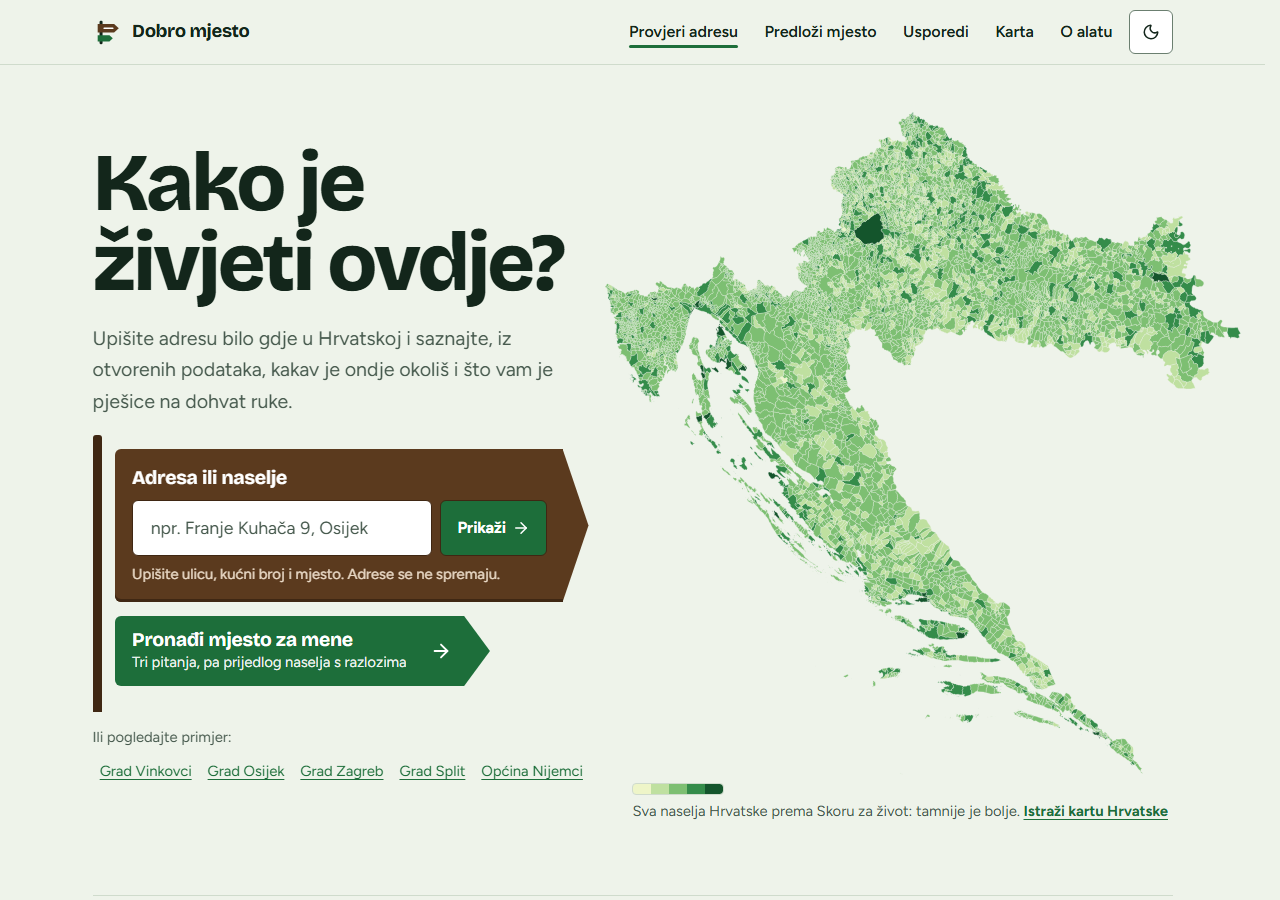
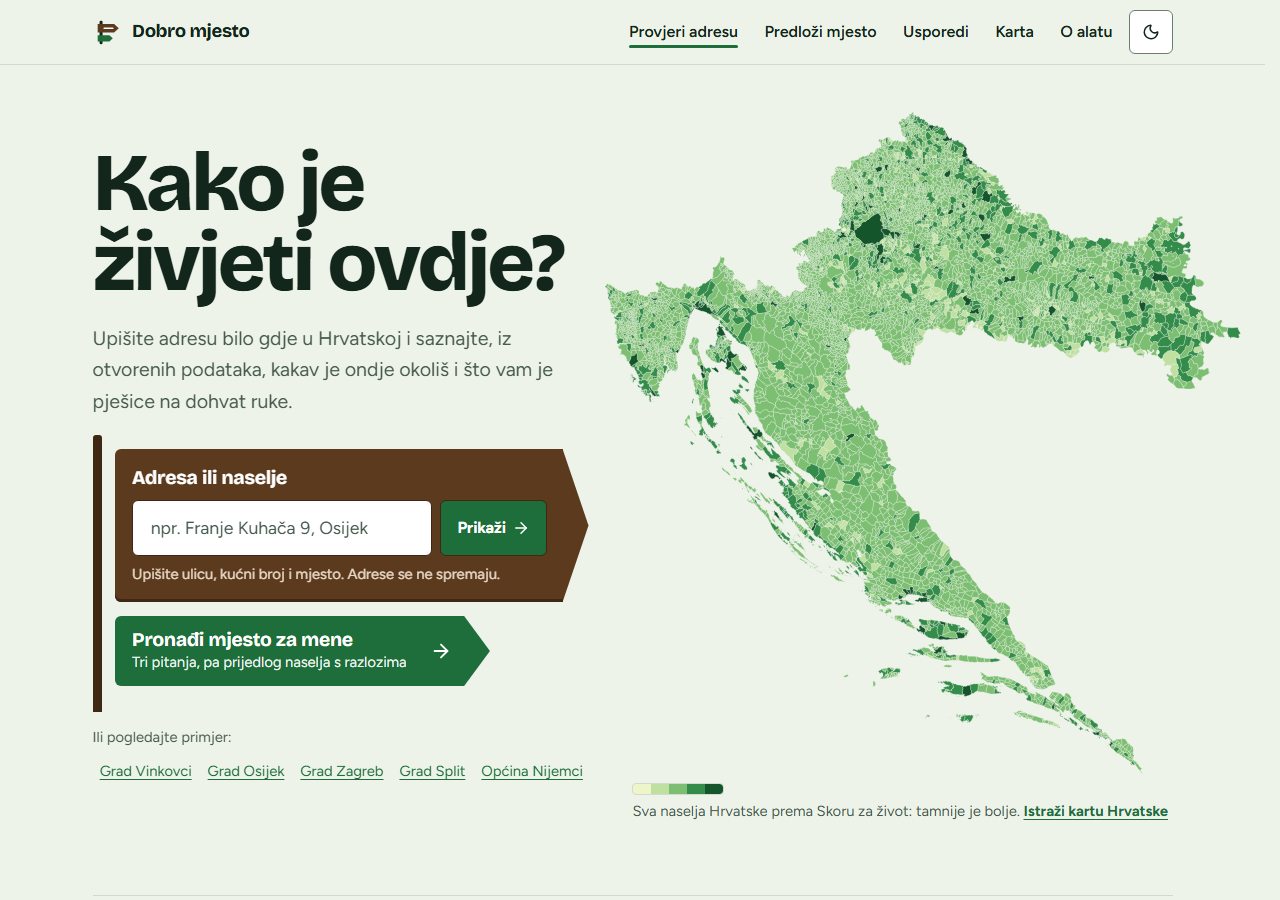
fix(traffic): count no county roads and measure settlements over all their addresses
Split led almost every profile because its centre lies in the pedestrian old
town (100/100), while 79 % of settlements were "near a major road" because a
county road runs through nearly every village. County roads (OSM secondary
with a Ž number) no longer count; for settlements the band is computed for
every DGU address (1,683,411) and the sub-score is their mean. The address
report keeps its own point. Goldens updated, compare table is a focusable
scroll region.

Changed region(s): [[0.5938, 0.1244, 0.9375, 0.7467], [0.75, 0.7467, 0.7812, 0.7778], [0.5312, 0.3111, 0.5625, 0.3422]]

diff --git a/frontend/src/pages/AboutPage.tsx b/frontend/src/pages/AboutPage.tsx
@@ -90,8 +90,9 @@ export function AboutPage() {
               <tr>
                 <th scope="row">Udaljenost od prometnica</th>
                 <td>
-                  Zračna udaljenost od lokacije do autocesta, brzih, državnih i županijskih cesta te pruga
-                  (OpenStreetMap). Ne mjerimo buku; to je zamjenski pokazatelj.
+                  Zračna udaljenost od lokacije do autocesta, brzih, državnih i glavnih gradskih cesta te
+                  pruga (OpenStreetMap); županijske ceste s oznakom Ž se ne broje. Za naselje se
+                  računa za svaku adresu. Ne mjerimo buku; to je zamjenski pokazatelj.
                 </td>
                 <td>
                   Do 300 m: blizu prometnice; 300–500 m: rub zone prometa; dalje: podalje od

diff --git a/frontend/src/pages/ComparePage.tsx b/frontend/src/pages/ComparePage.tsx
@@ -39,7 +39,9 @@ function CompareTable({ a, b, ra, rb }: { a: Point; b: Point; ra: Report; rb: Re
   const dailyValue = (r: Report, key: string) =>
     cat(r, 'daily')?.values.find((v) => v.key === `nearest_${key}`)
   return (
-    <div style={{ overflowX: 'auto' }}>
+    // A scrollable region must be reachable by keyboard (axe: scrollable-region-focusable).
+    // eslint-disable-next-line jsx-a11y/no-noninteractive-tabindex -- see the line above
+    <div className="table-scroll" role="region" aria-label="Tablica usporedbe" tabIndex={0}>
       <table className="compare-table">
         <caption className="visually-hidden">Usporedba dviju adresa po kategorijama</caption>
         <thead>

diff --git a/backend/ingest/settlement_traffic.py b/backend/ingest/settlement_traffic.py
@@ -1,0 +1,117 @@
+"""Distance from major roads for whole settlements, over every DGU address.
+
+One point (the settlement centre) does not describe a town: the centre of Split lies in
+the pedestrian old town, while most of its people live along busy roads, and the centre
+of almost every village lies on the road through it. So for the map and "Predloži
+mjesto" every DGU address in the settlement gets the same band as an address report
+(analysis/environment.py: up to 300 m, 300–500 m, beyond 500 m from a motorway,
+expressway, state road or main city street), and the settlement gets the shares of its
+addresses in each band and the mean of their sub-scores. Settlements without addresses
+keep the value at their centre.
+
+Output: data/processed/settlement_traffic.parquet
+  code, addresses, near_share, edge_share, far_share, score_noise
+"""
+
+from __future__ import annotations
+
+import json
+
+import numpy as np
+import pandas as pd
+import pyarrow as pa
+import pyarrow.parquet as pq
+from shapely import STRtree, points
+
+from analysis.environment import TRAFFIC_BANDS, is_traffic_road
+from analysis.score import TRAFFIC_POINTS
+from app.geo import to_htrs_arrays
+from app.layers import load_lines
+from ingest.common import processed_dir, record_source
+
+NEAR_M = float(TRAFFIC_BANDS[0][0] or 300.0)
+EDGE_M = float(TRAFFIC_BANDS[1][0] or 500.0)
+
+
+def address_distances(lon: np.ndarray, lat: np.ndarray) -> np.ndarray:
+    """Straight-line distance in metres from each point to the nearest major road
+    (capped at EDGE_M + 1: only the band matters beyond 500 m)."""
+    lines = load_lines(processed_dir() / "osm_noise_lines.parquet")
+    if lines is None:
+        raise RuntimeError("Nema osm_noise_lines.parquet: pokrenite `make data` (OSM).")
+    roads = [
+        g
+        for g, k, r in zip(lines.geoms, lines.kinds, lines.refs, strict=True)
+        if k != "rail" and is_traffic_road(k, r)
+    ]
+    tree = STRtree(roads)
+    x, y = to_htrs_arrays(lon.astype(np.float64), lat.astype(np.float64))
+    pts = points(x, y)
+    cap = EDGE_M + 1.0
+    dist = np.full(len(pts), cap)
+    idx, d = tree.query_nearest(pts, max_distance=cap, return_distance=True, all_matches=False)
+    # query_nearest returns (input index, tree index) pairs; keep the shortest per point.
+    np.minimum.at(dist, idx[0], d)
+    return dist
+
+
+def run() -> None:
+    d = processed_dir()
+    addresses = pd.read_parquet(d / "addresses.parquet", columns=["settlement_code", "lon", "lat"])
+    addresses = addresses.dropna(subset=["settlement_code"]).assign(real=True)
+    # Settlements without any address are measured at their centre instead.
+    centres = pd.read_parquet(d / "settlements.parquet", columns=["code", "lon", "lat"])
+    centres = centres[~centres["code"].isin(set(addresses["settlement_code"]))]
+    addresses = pd.concat(
+        [addresses, centres.rename(columns={"code": "settlement_code"}).assign(real=False)],
+        ignore_index=True,
+    )
+    dist = address_distances(addresses["lon"].to_numpy(), addresses["lat"].to_numpy())
+    near = dist <= NEAR_M
+    edge = (dist > NEAR_M) & (dist <= EDGE_M)
+    far = dist > EDGE_M
+    points_by_band = np.where(
+        near,
+        TRAFFIC_POINTS["Blizu prometnice"],
+        np.where(edge, TRAFFIC_POINTS["Rub zone prometa"], TRAFFIC_POINTS["Podalje od prometnica"]),
+    )
+    frame = pd.DataFrame(
+        {
+            "code": addresses["settlement_code"].astype(str).to_numpy(),
+            "near": near,
+            "edge": edge,
+            "far": far,
+            "points": points_by_band,
+            "real": addresses["real"].to_numpy(),
+        }
+    )
+    grouped = frame.groupby("code")
+    table = pd.DataFrame(
+        {
+            "addresses": grouped["real"].sum(),
+            "near_share": grouped["near"].mean(),
+            "edge_share": grouped["edge"].mean(),
+            "far_share": grouped["far"].mean(),
+            "score_noise": grouped["points"].mean().round(),
+        }
+    ).reset_index()
+    pq.write_table(
+        pa.Table.from_pandas(table, preserve_index=False), d / "settlement_traffic.parquet"
+    )
+    record_source(
+        "settlement_traffic",
+        title="Udaljenost adresa naselja od velikih prometnica, izračun aplikacije",
+        publisher="izvedeno iz DGU adresa i OpenStreetMapa",
+        url="",
+        license="CC BY 4.0 (izvedeni podaci); ulazni izvori zadržavaju svoje licence",
+        retrieved_at=pd.Timestamp.now(tz="UTC").isoformat(timespec="seconds"),
+        notes=json.dumps({"settlements": len(table), "addresses": int(frame["real"].sum())}),
+    )
+    print(
+        f"prometnice po adresama: {int(frame['real'].sum())} adresa u {len(table)} naselja, "
+        f"blizu prometnice {near.mean():.0%}"
+    )
+
+
+if __name__ == "__main__":
+    run()

diff --git a/backend/analysis/environment.py b/backend/analysis/environment.py
@@ -616,6 +616,19 @@ TRAFFIC_BANDS: list[tuple[float | None, str, Status]] = [
 _COUNTY_REF = re.compile(r"\d{4}")
 
 
+def is_traffic_road(kind: str, ref: str) -> bool:
+    """Roads that count as major traffic: motorways, expressways, state and other primary
+    roads, and secondary roads without a county number (main city streets that used to
+    be county roads). County roads (secondary with a four-digit Ž number) run through
+    almost every village and mostly carry little traffic, so they are left out."""
+    if kind in ("motorway", "trunk", "primary"):
+        return True
+    if kind == "secondary":
+        first = (ref or "").split(";")[0].strip()
+        return not _COUNTY_REF.fullmatch(first)
+    return False
+
+
 def road_name(kind: str, ref: str) -> str:
     """Croatian road class from OSM tags (wiki "Croatia/Ceste"): motorway is an autocesta,
     trunk a brza cesta, primary a državna cesta (ref D…), secondary a županijska cesta
@@ -631,7 +644,7 @@ def road_name(kind: str, ref: str) -> str:
         return f"državna cesta {first}" if first.startswith("D") else "glavna cesta"
     if _COUNTY_REF.fullmatch(first):
         return f"županijska cesta Ž{first}"
-    return "županijska ili glavna gradska cesta" if not first else "važnija cesta"
+    return "glavna gradska cesta" if not first else "važnija cesta"
 
 
 def traffic_band(distance_m: float) -> tuple[str, Status]:
@@ -670,13 +683,15 @@ def noise_category(lon: float, lat: float, layers: Layers) -> Category:
     nearest: dict[str, tuple[float, str]] = {}
     for i in lines.tree.query(origin.buffer(2000.0), predicate="intersects"):
         kind = lines.kinds[int(i)]
+        if kind != "rail" and not is_traffic_road(kind, lines.refs[int(i)]):
+            continue
         group = "rail" if kind == "rail" else "road"
         d = float(lines.geoms[int(i)].distance(origin))
         if group not in nearest or d < nearest[group][0]:
             nearest[group] = (d, road_name(kind, lines.refs[int(i)]))
     values: list[Value] = []
     for group, value_label in (
-        ("road", "Najbliža autocesta, brza, državna ili županijska cesta"),
+        ("road", "Najbliža autocesta, brza, državna ili glavna gradska cesta"),
         ("rail", "Najbliža pruga"),
     ):
         found = nearest.get(group)
@@ -699,7 +714,7 @@ def noise_category(lon: float, lat: float, layers: Layers) -> Category:
     sentences = [
         _traffic_sentence(road[1], road[0])
         if road
-        else "U krugu od 2 km nema autoceste, brze, državne ni županijske ceste."
+        else "U krugu od 2 km nema autoceste, brze, državne ni glavne gradske ceste."
     ]
     if rail and rail[0] <= 500:
         sentences.append(f"Željeznička pruga je {fmt.metres(rail[0])} od lokacije.")
@@ -724,9 +739,9 @@ def noise_category(lon: float, lat: float, layers: Layers) -> Category:
         scales=[scale],
         notes=[
             "Ne mjerimo buku: ovo je procjena prema zračnoj udaljenosti od lokacije (adrese ili "
-            "središta naselja) do osi najbliže autoceste, brze, državne ili županijske ceste "
-            "(u gradovima i bivše županijske ceste, danas glavne gradske ulice) te pruge iz "
-            "OpenStreetMapa. Ostale ulice se ne broje.",
+            "središta naselja) do osi najbliže autoceste, brze, državne ili glavne gradske "
+            "ceste (bivše županijske ceste u gradovima) te pruge iz OpenStreetMapa. "
+            "Županijske ceste s oznakom Ž i ostale ulice se ne broje.",
             "Pojasevi slijede pregled istraživanja Health Effects Institutea (2010.): "
             "onečišćenje od prometa najveće je unutar približno 300 do 500 m od velike "
             "prometnice, a dalje pada na pozadinsku razinu.",

diff --git a/backend/app/finder.py b/backend/app/finder.py
@@ -121,6 +121,14 @@ def profiles() -> pd.DataFrame:
     facilities = d / "settlement_facilities.parquet"
     if facilities.exists():
         df = df.merge(pd.read_parquet(facilities), on="code", how="left")
+    traffic = d / "settlement_traffic.parquet"
+    if traffic.exists():
+        # Distance from major roads over every address of the settlement replaces the
+        # value at its single centre point (ingest/settlement_traffic.py).
+        t = pd.read_parquet(traffic).rename(columns={"score_noise": "score_noise_addr"})
+        df = df.merge(t, on="code", how="left")
+        df["score_noise"] = df["score_noise_addr"].fillna(df["score_noise"])
+        df = df.drop(columns="score_noise_addr")
     return df
 
 
@@ -171,6 +179,13 @@ def _facts(row: pd.Series) -> list[str]:
         facts.append(
             f"Zrak: {AIR_RATINGS.get(row['air_band'], row['air_band']).lower()} "
             f"(PM2,5 {fmt.num(float(row['pm25']), 1)} µg/m³)."
+        )
+    near, far = row.get("near_share"), row.get("far_share")
+    if near is not None and far is not None and pd.notna(near) and pd.notna(far):
+        facts.append(
+            f"Prometnice: {fmt.num(100 * float(near))} % adresa naselja je do 300 m, a "
+            f"{fmt.num(100 * float(far))} % dalje od 500 m od autoceste, brze, državne ili "
+            "glavne gradske ceste."
         )
     if pd.notna(row["needs_15min"]):
         facts.append(f"Pješice do 15 min: {int(row['needs_15min'])} od 7 svakodnevnih potreba.")

diff --git a/backend/tests/test_traffic.py b/backend/tests/test_traffic.py
@@ -1,0 +1,36 @@
+"""Which roads count as major traffic, and the settlement value over its addresses."""
+
+import numpy as np
+import pytest
+
+from analysis.environment import is_traffic_road
+from ingest import settlement_traffic
+
+
+def test_county_roads_do_not_count_but_city_main_streets_do() -> None:
+    assert is_traffic_road("motorway", "A3")
+    assert is_traffic_road("trunk", "D1")
+    assert is_traffic_road("primary", "D2")
+    assert is_traffic_road("primary", "")
+    assert is_traffic_road("secondary", "")  # former county road, now a main city street
+    assert not is_traffic_road("secondary", "4290")  # county road Ž4290
+    assert not is_traffic_road("secondary", "2001;2002")
+    assert not is_traffic_road("tertiary", "")
+
+
+def test_bands_follow_the_report_thresholds() -> None:
+    assert settlement_traffic.NEAR_M == 300.0
+    assert settlement_traffic.EDGE_M == 500.0
+
+
+@pytest.mark.skipif(
+    not (settlement_traffic.processed_dir() / "osm_noise_lines.parquet").exists(),
+    reason="needs processed OSM roads (make data)",
+)
+def test_a_point_on_a_motorway_is_near_and_one_at_sea_is_far() -> None:
+    # A3 near Zagreb (Jankomir interchange) and the open Adriatic.
+    dist = settlement_traffic.address_distances(
+        np.array([15.8817, 15.0]), np.array([45.7961, 43.5])
+    )
+    assert dist[0] <= settlement_traffic.NEAR_M
+    assert dist[1] > settlement_traffic.EDGE_M

diff --git a/backend/app/assistant.py b/backend/app/assistant.py
@@ -185,9 +185,9 @@ EXPLANATIONS: dict[str, str] = {
     ),
     "noise": (
         "Buku ne mjerimo: otvorene karte buke za cijelu Hrvatsku ne postoje. Prikazujemo "
-        "udaljenost od autocesta, brzih, državnih i županijskih cesta te pruga. Do 300 m od velike "
-        "prometnice buka i ispušni plinovi obično su najizraženiji, a dalje od 500 m utjecaj "
-        "je slab (pregled istraživanja Health Effects Institutea, 2010.)."
+        "udaljenost od autocesta, brzih, državnih i glavnih gradskih cesta te pruga. "
+        "Do 300 m od velike prometnice buka i ispušni plinovi obično su najizraženiji, "
+        "a dalje od 500 m utjecaj je slab (pregled istraživanja Health Effects Institutea, 2010.)."
     ),
     "solar": (
         "Procjena dolazi iz alata PVGIS Europske komisije: koliko bi kilovatsati godišnje "

diff --git a/backend/tests/test_environment.py b/backend/tests/test_environment.py
@@ -76,6 +76,6 @@ def test_road_names_follow_croatian_road_classes() -> None:
     assert road_name("primary", "D8;D1") == "državna cesta D8"
     assert road_name("primary", "") == "glavna cesta"
     assert road_name("secondary", "2001") == "županijska cesta Ž2001"
-    assert road_name("secondary", "") == "županijska ili glavna gradska cesta"
+    assert road_name("secondary", "") == "glavna gradska cesta"
     assert road_name("secondary", "R-408") == "važnija cesta"
     assert road_name("rail", "M202") == "željeznička pruga"

diff --git a/backend/ingest/run_all.py b/backend/ingest/run_all.py
@@ -18,6 +18,7 @@ from ingest import (
     recycling,
     registries,
     settlement_profiles,
+    settlement_traffic,
     stations,
     transit,
 )
@@ -36,6 +37,7 @@ STEPS: list[tuple[str, Callable[[], None]]] = [
     ("Spajanje točaka", pois.run),
     ("Profili naselja (treba pokrenutu Valhallu)", settlement_profiles.run),
     ("Visoka učilišta, bolnice i studentski domovi (MZOM, OSM)", facilities.run),
+    ("Udaljenost adresa naselja od prometnica (DGU, OSM)", settlement_traffic.run),
 ]
 
 

diff --git a/README.md b/README.md
@@ -32,7 +32,7 @@ Izvještaj počinje **iskaznicom mjesta**: naziv i adresa, dvije do tri rečenic
    - **poplave:** je li lokacija ili njezina okolica od 100 m u modeliranom poplavnom području za povratna razdoblja od 10, 100 i 500 godina, razumljivo izraženo kao vjerojatnost barem jedne poplave u 30 godina (trajanje stambenog kredita), s poveznicom na službene karte Hrvatskih voda;
    - **zrak:** jedna ocjena (vrlo dobar, dobar, umjeren, loš) i rečenica o tome što znači kroz godinu; godišnji PM2,5 i NO2 s granicama Svjetske zdravstvene organizacije i EU-a u detaljima;
    - **zelenilo i hlad:** udio drveća, zelenih i izgrađenih površina kopna u krugu od 300 m i najbliži park, prema pravilu 3-30-300 (temperaturu ne mjerimo; drveće je pokazatelj hlada);
-   - **udaljenost od prometnica:** udaljenost od autocesta, brzih, državnih i županijskih cesta (u gradovima i glavnih gradskih ulica) te pruga, s vrstom i oznakom ceste (npr. državna cesta D8) i pojasevima 300/500 m (procjena, ne mjerenje buke);
+   - **udaljenost od prometnica:** udaljenost od autocesta, brzih i državnih cesta te glavnih gradskih ulica i pruga, s vrstom i oznakom ceste (npr. državna cesta D8) i pojasevima 300/500 m (procjena, ne mjerenje buke); županijske ceste s oznakom Ž se ne broje, a za naselje (karta, „Predloži mjesto”) računa se udio svih adresa u svakom pojasu;
    - **požari raslinja:** opožarene površine u krugu od 2 km od 2016. (Copernicus EFFIS);
    - **sunce na krovu:** procijenjena godišnja proizvodnja solarne elektrane po kilovatu (JRC PVGIS).
 2. **Život bez auta:**
@@ -65,11 +65,11 @@ Usporedba dviju adresa javnih ustanova u Vukovarsko-srijemskoj županiji. Izrač
 | Poplave | **Dobro:** izvan modeliranih područja za 10, 100 i 500 godina, i u krugu od 100 m | **Dobro:** isto |
 | Zrak (godišnji prosjek 2024.) | **Umjeren:** PM2,5 18,2 µg/m³ (unutar današnje granice EU-a od 25, iznad granice za 2030. od 10), NO2 17,5 µg/m³ (niska razina) | **Umjeren:** PM2,5 18,6 µg/m³, NO2 16,5 µg/m³ |
 | Zelenilo i hlad (300 m) | **Upozorenje:** drveće 7 %, izgrađeno 90 %; park 2 min hoda | **Loše:** drveće 20 %; najbliži park udaljen 6,1 km |
-| Udaljenost od prometnica | **Blizu prometnice:** županijska cesta Ž4290, 10 m; pruga 1,4 km | **Blizu prometnice:** županijska cesta Ž4224, 20 m |
+| Udaljenost od prometnica | **Podalje od prometnica:** najbliža velika cesta 790 m (glavna gradska cesta); pruga 1,4 km. Županijska cesta Ž4290 uz zgradu se od 8. 11. ne broji | **Blizu prometnice:** glavna cesta, 40 m |
 | Sunce na krovu | oko 1.251 kWh po kWp godišnje, nagib 37° | oko 1.245 kWh po kWp godišnje, nagib 36° |
 | Život bez auta | 6 od 7 potreba unutar 15 min; stajalište s polascima nije provjereno (nema otvorenog voznog reda) | 5 od 7; nedostaje park; stajalište nije provjereno |
 | Najbliži vrtić / škola / liječnik | 7 / 4 / 5 min hoda | 12 / 3 / 4 min hoda |
-| Skor za život (profil „Općenito”) | 67 | 60 |
+| Skor za život (profil „Općenito”) | 77 | 60 |
 
 Isti izračun dobiva se pozivom `GET /api/report?lat=45.288186&lon=18.805681` (Vinkovci) i `GET /api/report?lat=45.140273&lon=19.034942` (Nijemci). Svih šest demo adresa nalazi se u [scripts/demo_addresses.json](scripts/demo_addresses.json), a njihovi rezultati provjeravaju se zlatnim testovima.
 
@@ -271,7 +271,7 @@ Cijeli popis vodi se u [docs/KVALITETA_PODATAKA.md](docs/KVALITETA_PODATAKA.md).
 - Ovo je informativni alat, a ne službena procjena rizika, geodetski ni građevinski pregled. Ne zamjenjuje karte i upozorenja Hrvatskih voda, DHMZ-a i civilne zaštite.
 - Karte poplava su modelirane i obuhvaćaju samo riječne poplave većih vodotoka (bez bujica i poplava mora). Lokacija izvan modeliranog područja ne znači da rizika nema.
 - Kvaliteta zraka prikazuje se kao godišnji prosjek modelirane karte na mreži od 1 km, a ne kao mjerenje na samoj adresi.
-- „Udaljenost od prometnica” je procjena, a ne mjerenje buke: strateške karte buke EEA-e nemaju otvorenu licencu, pa ih samo povezujemo.
+- „Udaljenost od prometnica” je procjena, a ne mjerenje buke: strateške karte buke EEA-e nemaju otvorenu licencu, pa ih samo povezujemo. Županijske ceste (Ž) se ne broje jer kroz gotovo svako selo prolazi neka; zato se ni prometnija županijska cesta kroz središte grada (npr. Ž4290 u Vinkovcima) ne vidi kao prometnica.
 - Karta zraka prikazuje pozadinsku razinu; uz prometne ulice NO2 može biti znatno viši (provjera uz službene postaje u [docs/METODOLOGIJA.md](docs/METODOLOGIJA.md)). ML model nije ušao u aplikaciju jer nije bio bolji za obje tvari ([docs/ML.md](docs/ML.md)).
 - „Predloži mjesto za život” računa za središte naselja s najmanje 200 stanovnika, bez sunca na krovu; za konkretnu adresu treba otvoriti izvještaj.
 - Karta Hrvatske boji svih 6.759 naselja prema vrijednosti u središtu naselja, a ne za svaku kuću u njemu; za konkretnu adresu kartica nudi puni izvještaj.

diff --git a/docs/METODOLOGIJA.md b/docs/METODOLOGIJA.md
@@ -132,7 +132,7 @@ Vrijednosti iz aplikacije (EEA karta za 2024.) usporedili smo s godišnjim prosj
 
 ## Udaljenost od prometnica (procjena; ranije „Promet u blizini” i „Buka”)
 
-- **Podaci:** ceste `highway=motorway|trunk|primary|secondary` i pruge (`railway=rail`, bez sporednih kolosijeka) iz OpenStreetMapa. Ostale ulice se ne broje.
+- **Podaci:** ceste `highway=motorway|trunk|primary` i `secondary` bez županijske oznake (glavne gradske ulice) te pruge (`railway=rail`, bez sporednih kolosijeka) iz OpenStreetMapa. Županijske ceste (`secondary` s četveroznamenkastom oznakom Ž) i ostale ulice se od 8. 11. 2026. ne broje: kroz gotovo svako selo prolazi neka županijska cesta, pa je 79 % naselja bilo „blizu prometnice” i podatak nije razlikovao mirna mjesta od prometnih.
 - **Vrsta ceste** prema hrvatskim pravilima označavanja u OSM-u (wiki „Croatia/Ceste”):
 
 | OSM | U izvještaju | Primjer |
@@ -141,8 +141,8 @@ Vrijednosti iz aplikacije (EEA karta za 2024.) usporedili smo s godišnjim prosj
 | `trunk` | brza cesta i oznaka | brza cesta D1 |
 | `primary` s oznakom D | državna cesta i oznaka | državna cesta D8 |
 | `primary` bez oznake D | glavna cesta | |
-| `secondary` s četveroznamenkastom oznakom | županijska cesta (Ž i oznaka) | županijska cesta Ž2001 |
-| `secondary` bez oznake | županijska ili glavna gradska cesta (bivše županijske ceste u gradovima) | |
+| `secondary` s četveroznamenkastom oznakom | ne broji se (županijska cesta) | županijska cesta Ž2001 |
+| `secondary` bez oznake | glavna gradska cesta (bivše županijske ceste u gradovima) | |
 
   U podacima 19.042 dionice `primary` imaju oznaku D, a 16.463 dionice `secondary` županijsku oznaku; 3.910 dionica `secondary` nema oznaku, uglavnom u gradovima.
 - **Izračun:** zračna udaljenost od lokacije (adrese ili središta naselja) do najbliže točke osi takve ceste i do najbliže pruge, do 2 km. Buku ne mjerimo; udaljenost je zamjenski pokazatelj, vrste „procjena”. Za središta naselja udaljenost je često 0 m jer OSM čvor naselja leži na samoj cesti; za adresu uz cestu nekoliko je metara (točka adrese je na zgradi).
@@ -158,7 +158,8 @@ Vrijednosti iz aplikacije (EEA karta za 2024.) usporedili smo s godišnjim prosj
 - **Pruga:** navodi se opisno ako je do 500 m. Pregled HEI-ja odnosi se na cestovni promet, pa pruga ne mijenja status.
 - **Kontekst:** smjernice WHO-a za buku okoliša (2018.) preporučuju cestovni promet ispod 53 dB Lden i 45 dB Lnight (https://iris.who.int/handle/10665/279952). Strateške karte buke EEA-e nemaju otvorenu licencu, pa ih samo povezujemo.
 - **Smjer podskora:** veći broj znači manje prometa. 100 je dalje od 500 m od takve ceste, 60 od 300 do 500 m, a 25 do 300 m. Naziv kategorije od 6. 11. 2026. je „Udaljenost od prometnica”, da „100/100” ne zvuči kao „mnogo prometa”.
-- **Popis „Predloži mjesto” i izvještaj:** popis računa za središte naselja, a izvještaj za odabranu adresu, pa se brojke mogu razlikovati (Split: središte 530 m od državne ceste, adresa uz tu cestu nekoliko metara).
+- **Naselje (karta i „Predloži mjesto”):** jedna točka ne opisuje naselje (središte Splita je u pješačkoj staroj jezgri, a središte gotovo svakog sela na cesti kroz selo), pa se za svako naselje računa pojas za **svaku adresu DGU-a** u njemu (1.683.411 adresa, `ingest/settlement_traffic.py`). Podskor naselja je prosjek podskorova adresa (100, 60 ili 25), a uz prijedlog piše koliki udio adresa je do 300 m i koliki dalje od 500 m od velike prometnice. Naselja bez adresa (17) zadržavaju vrijednost u središtu. Izvještaj za adresu i dalje računa za tu adresu.
+- **Ograničenje:** prometnija županijska cesta kroz središte grada (npr. Ž4290 u Vinkovcima) ne broji se kao prometnica; buku i broj vozila ne mjerimo.
 - Zašto i `secondary`: vidi [ODLUKE.md](ODLUKE.md).
 
 ## Požari raslinja

diff --git a/PROGRESS.md b/PROGRESS.md
@@ -119,5 +119,6 @@ Ako ponestane vremena, režem ovim redom:
     - **novi izvori:** MZOM „Ustanove iz sustava visokog obrazovanja” i „Studijski programi visokih učilišta” (data.gov.hr, Otvorena dozvola; 28 mjesta, svih 28 spareno s naseljima DGU-a), OSM opće i kliničke bolnice (35), studentski domovi (21) i studentske menze (4); planirana optika nema otvoreni skup pa se ne boduje;
     - **profili naselja** dobili minute hoda do najbližeg mjesta svake vrste (ponovni izračun 783 s, svih 6.759 naselja s mrežom hoda, postojeće vrijednosti nepromijenjene);
     - **čarobnjak:** uz svaki profil piše što zahtijeva, uz prijedlog „Zašto je predloženo” s vrijednostima i „Što nedostaje”; broj uz prijedlog je „za profil”;
-    - **provjera smislenosti:** top 10 za svaki profil u RH i Osječko-baranjskoj; Student: Split, Zagreb, Osijek, Rijeka, Zadar, Dubrovnik, Pula, Velika Gorica, Varaždin, Zaprešić (u OBŽ Osijek pa njegova predgrađa i Đakovo); testovi pravila u `backend/tests/test_finder_rules.py` (pytest 165, Vitest 64, Playwright 60, `make verify` prolazi);
+    - **provjera smislenosti:** top 10 za svaki profil u RH i Osječko-baranjskoj; Student: Zagreb, Split, Osijek, Rijeka, Zadar, Pula, Dubrovnik, Velika Gorica, Zaprešić, Varaždin (u OBŽ Osijek pa njegova predgrađa i Đakovo); testovi pravila u `backend/tests/test_finder_rules.py` (pytest 165, Vitest 64, Playwright 60, `make verify` prolazi);
+    - **prometnice (8. 11.):** Split je bio prvi gotovo u svakom profilu jer mu je središte u pješačkoj staroj jezgri (100/100), a 79 % naselja bilo je „blizu prometnice” zbog županijske ceste kroz selo. Sad se županijske ceste (Ž) ne broje, a za naselje se računa udio svih 1.683.411 adresa DGU-a po pojasevima (`ingest/settlement_traffic.py`, 19 s); Split ima 48/100 (57 % adresa do 300 m od velike ceste), Zagreb 70, Osijek 46. Zlatni testovi ažurirani (Vinkovci, Nijemci), novi `tests/test_traffic.py`;
     - **usput:** `deploy/Dockerfile.web` kopira `config/`, bez čega se frontend ne bi izgradio u Dockeru (uvozi `profiles.json` i `finder_rules.json`).
